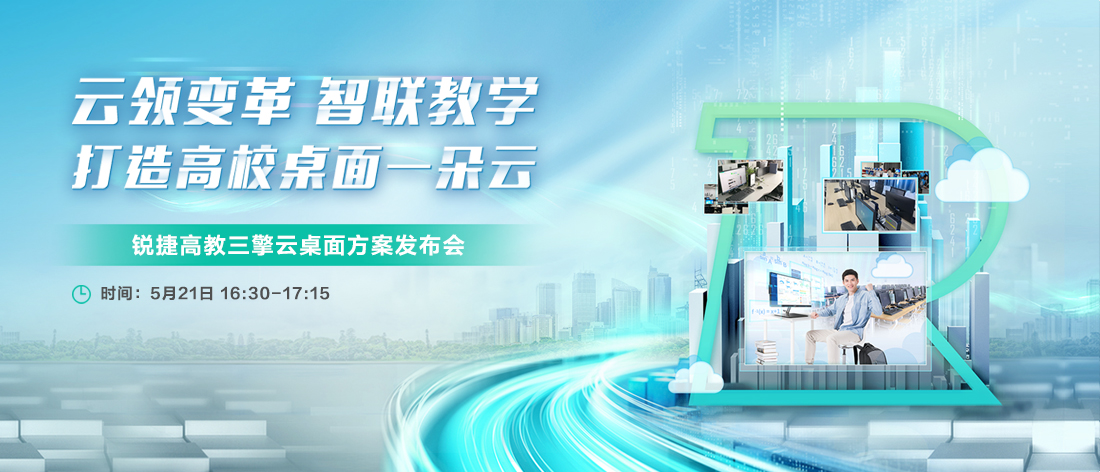
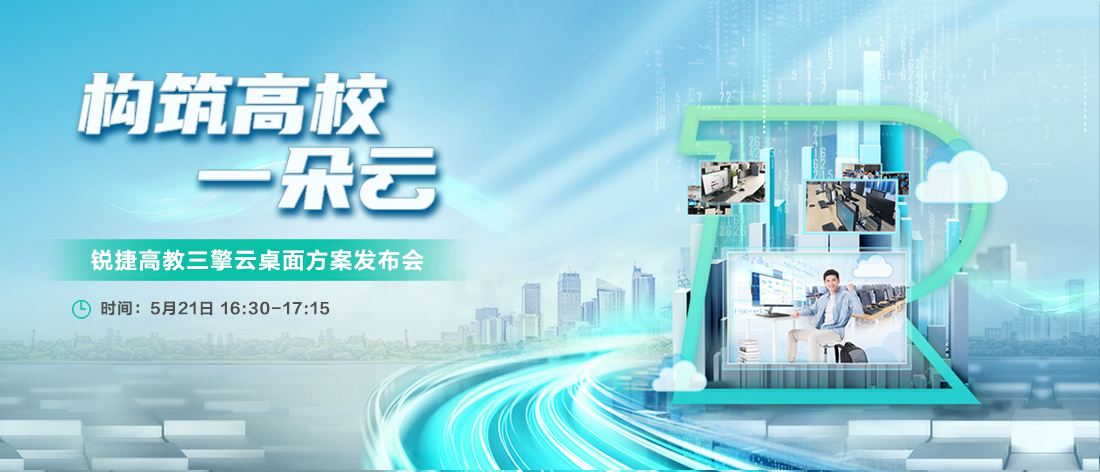
feat(擎云): 内容修改

diff --git a/gaojiao/index.html b/gaojiao/index.html
@@ -1012,7 +1012,7 @@
 			  <iframe
 				id="iframe"
 				src="https://v.zmengzhu.com/partner/inituser/10210890?embed=all&unique_id=19998237&appid=2021042118383670668&name=&avatar=&v=2 "
-				style="width:100%;height:350px;border:0"></iframe>
+				style="width:100%;height:484px;border:0"></iframe>
 			</div>
 		  </div>
 		</div>

diff --git a/gaojiao/index2.html b/gaojiao/index2.html
@@ -61,7 +61,7 @@
 			  <iframe
 				id="iframe"
 				src="https://v.zmengzhu.com/partner/inituser/10210890?embed=all&unique_id=19998237&appid=2021042118383670668&name=&avatar=&v=2 "
-				style="width:100%;height:350px;border:0"></iframe>
+				style="width:100%;height:484px;border:0"></iframe>
 			</div>
 		  </div>
 		</div>

diff --git a/gaojiao/RJ-css/item.css b/gaojiao/RJ-css/item.css
@@ -278,13 +278,13 @@ body {
   height: 692px;
 }
 .t-page1 .page1-cont {
-  width: 63%;
+  width: 58%;
   float: left;
   margin: 100px auto 0 auto;
 }
 .t-page1 .page1-title {
   margin-bottom: 20px;
-  margin-left: -55px;
+  margin-left: -35px;
 }
 .t-page1 .btn:first-child {
   margin-left: 0;

diff --git a/gaojiao-scss/item.scss b/gaojiao-scss/item.scss
@@ -263,14 +263,14 @@ body {
   height: 692px;
 
   .page1-cont{
-    width: 63%;
+    width: 58%;
     float: left;
     margin: 100px auto 0 auto;
   }
 
   .page1-title{
     margin-bottom: 20px;
-    margin-left: -55px;
+    margin-left: -35px;
   }
 
   .btn:first-child {
